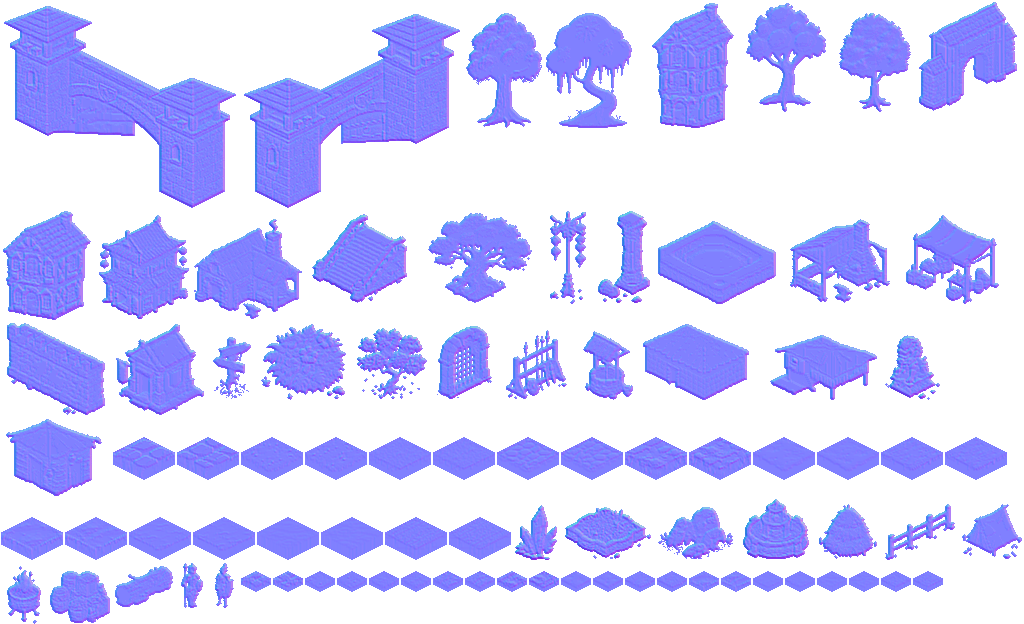
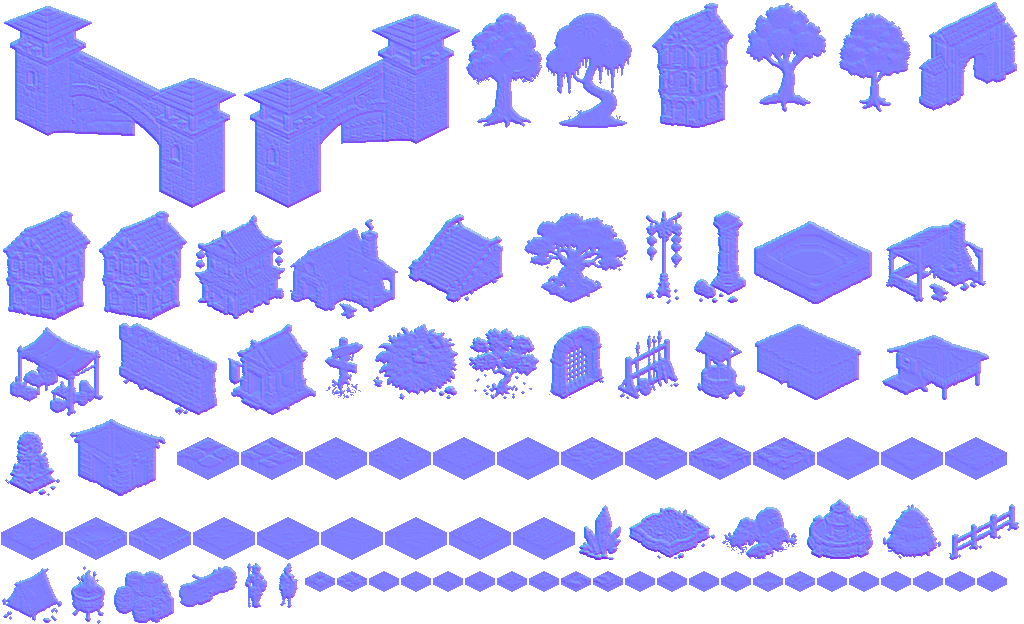
art: thêm nhà mái xám xanh xen phố Nặc Đinh

diff --git a/art/src/nac-dinh-1722/nha-mai-xam-xanh/NGUON.md b/art/src/nac-dinh-1722/nha-mai-xam-xanh/NGUON.md
@@ -1,0 +1,21 @@
+# Nhà mái xám xanh — Nặc Đinh Thành (#1722)
+
+Codex tạo biến thể mái xám xanh từ ảnh nhà hai tầng Codex đợt 1 bằng OpenAI `image_gen.imagegen`, ngày 03/11/2026. Giấy phép theo điều khoản đầu ra OpenAI, không CC0. Không dùng ảnh phim hoặc gói ngoài. RAW giữ ngoài repo; hash tại `nguon.json`.
+
+## Prompt thật
+
+Use case: precise-object-edit. Edit target: attached own Codex two-storey half-timber house sprite. Create the blue-grey tiled roof variant for the SAME game city street. Change ONLY the orange-red clay roof tiles and chimney cap tiles to muted slate BLUE-GREY, cool desaturated blue-green slate with subtle tile shading. Preserve the exact silhouette, footprint, framing, orthographic isometric 2:1 camera, two floors, cream plaster, dark timber, arched windows, wrought iron balcony, door at ground level, chimney stone, outline and upper-left light. Roof ridges remain perfectly straight along existing axes, no geometric redesign. Pixel game art matching input, no text or sign, no people, no extra objects, no ground plane or shadow. Actual transparent background outside house; preserve original alpha. One isolated house, centered, entire house visible.
+
+## Nhập lại
+
+`gemini-import.mjs` chỉ là tên công cụ nhập; nguồn ảnh là Codex.
+
+```sh
+node tools/assets/gemini-import.mjs --kind object --size 112x112 --cell 1 --logo off --grid 1x1 --palette gpl --names nha_mai_xam_xanh --out <tmp>/nhap <RAW>
+node tools/assets/iso-build.mjs prop nha_mai_xam_xanh <tmp>/nhap/nha_mai_xam_xanh.png --map nac_dinh_thanh
+node tools/assets/normal.mjs shared/assets/sprites/iso/props/nha_mai_xam_xanh.png
+node tools/assets/iso-atlas.mjs
+node tools/assets/credits.mjs
+```
+
+Khung cuối 96×112, chân [48,108], không lật ngang. Thay ba nhà tại các khối [17,44], [40,44], [54,44] trong `build.compounds` Nặc Đinh, giữ nhà mái đỏ cam xen kẽ. Không đổi bố cục vật lý, footprint, lưới chặn hoặc gameplay; không cần sửa công cụ dựng nhà.
